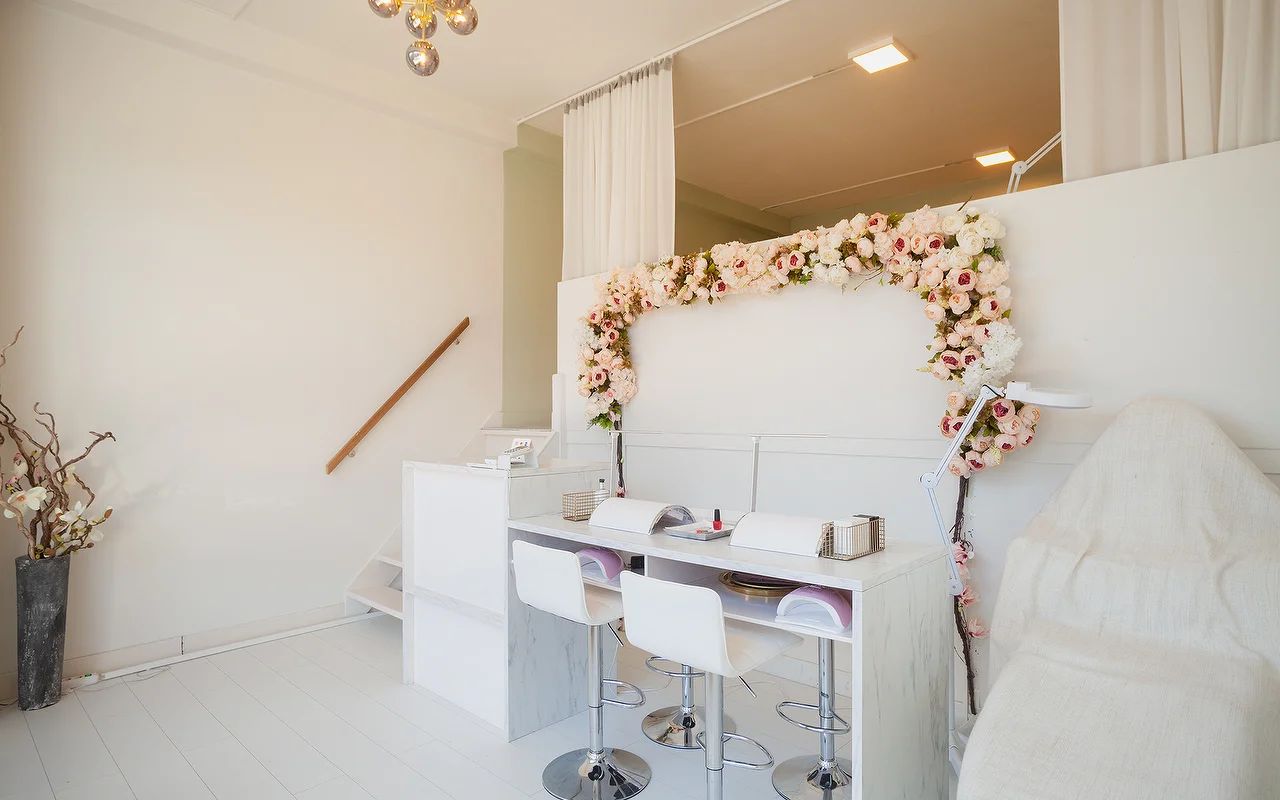
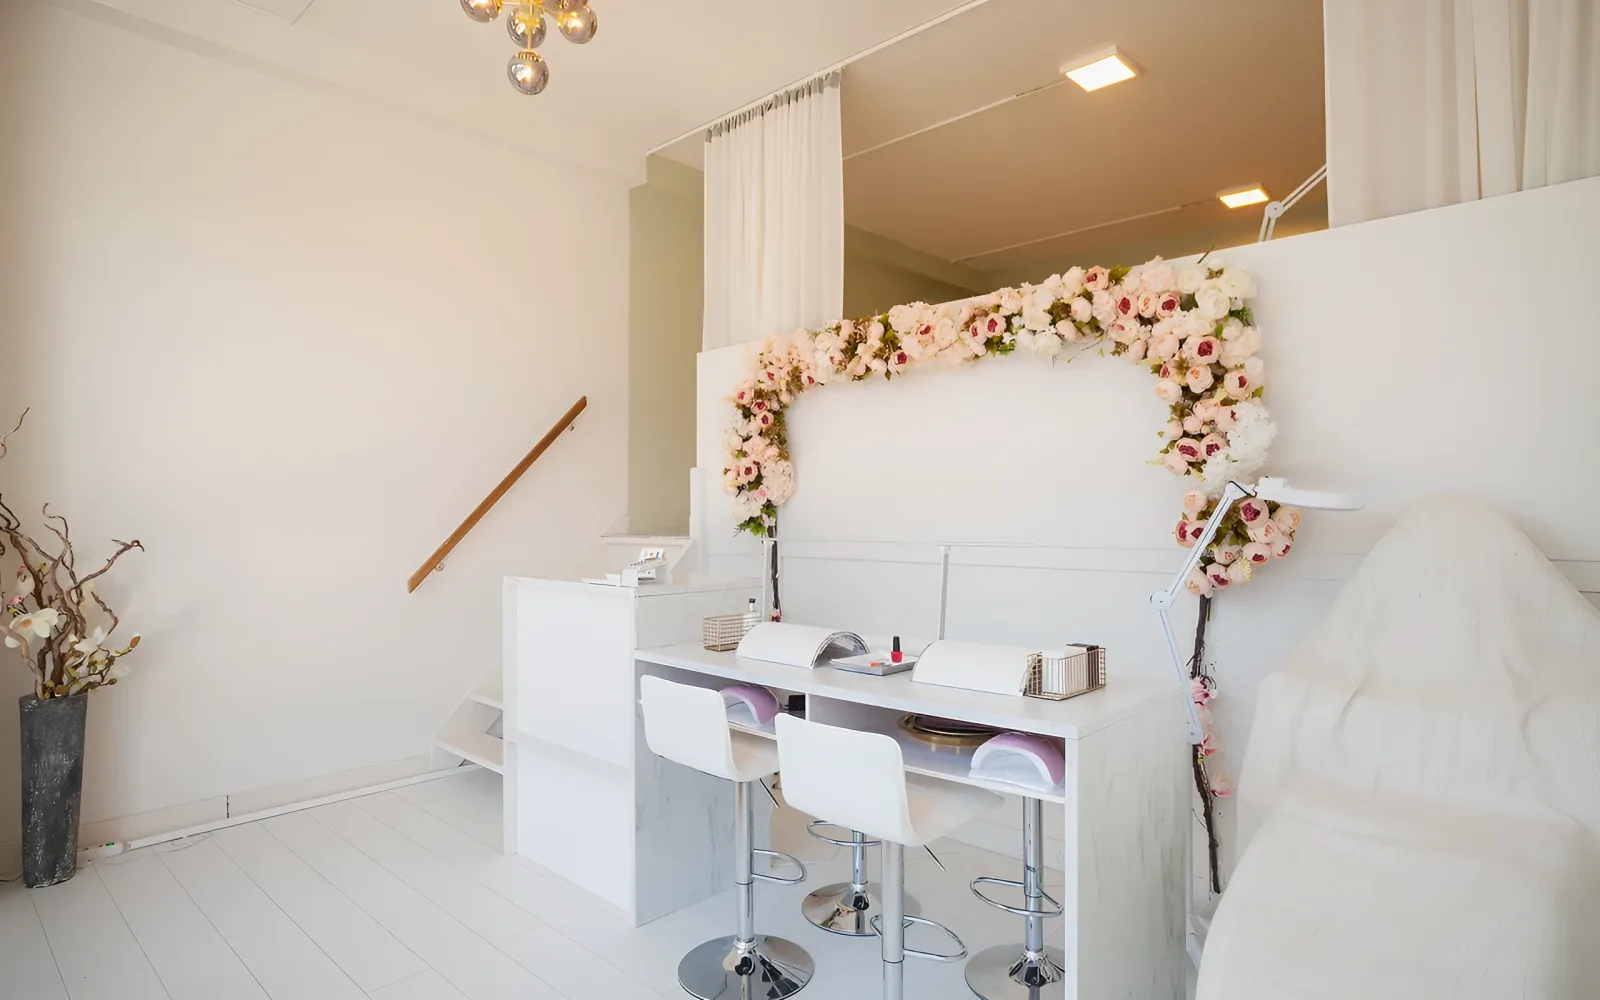
chore(claire): upscale studio images, fix footer bounce

diff --git a/apps/claires-skincare/src/index.css b/apps/claires-skincare/src/index.css
@@ -17,6 +17,9 @@
 }
 
 @layer base {
+  html, body {
+    overscroll-behavior-y: none;
+  }
   body {
     @apply font-sans bg-cream text-espresso antialiased;
     font-feature-settings: "ss01", "cv11";
